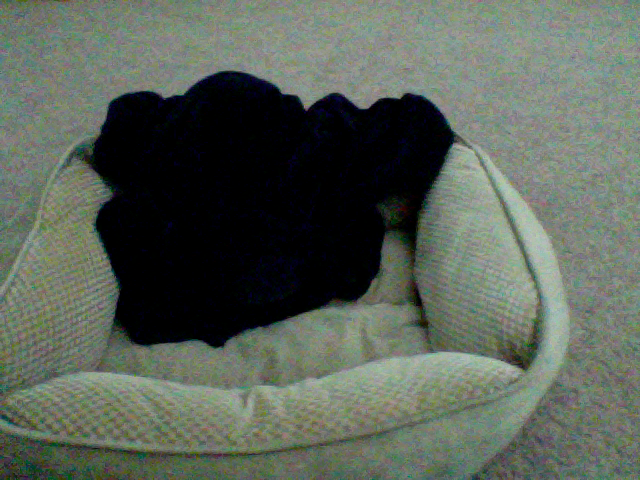
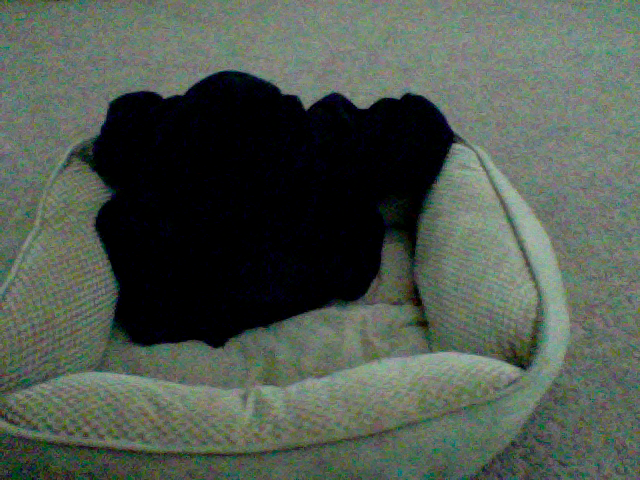
update at Month05Day08Time09:59

diff --git a/index.html b/index.html
@@ -39,8 +39,8 @@
       <!-- Example row of columns -->
       <div class="row">
         <div class="col-md-4">
-	<p>This picture was updated at Month05Day08Time09:58</p>
-		<img src="6_pic.png" />
+	<p>This picture was updated at Month05Day08Time09:59</p>
+		<img src="5_pic.png" />
         </div>
       </div>
 
